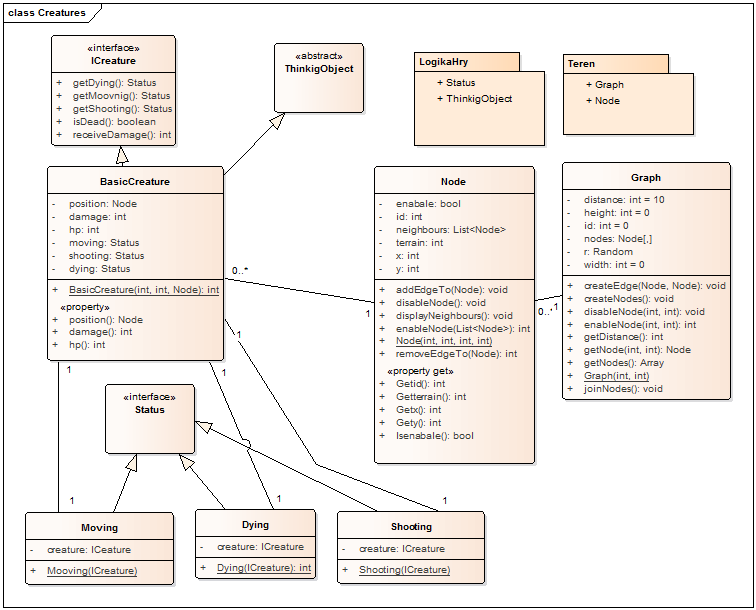
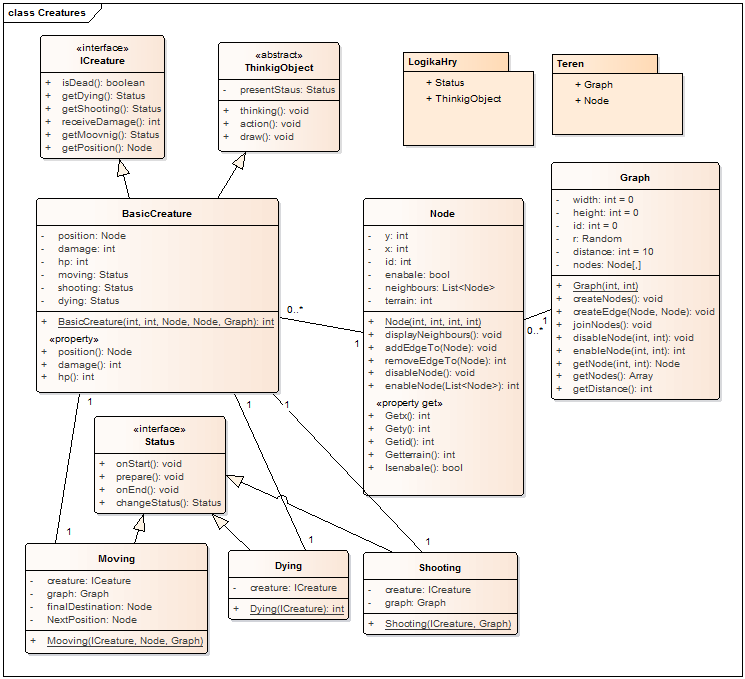
pathfinding algorithm added

Changed region(s): [[0.0, 0.0, 0.9879, 0.9656], [0.2779, 0.0623, 0.494, 0.2492], [0.0, 0.9967, 1.0, 1.0]]

diff --git a/Logika potvor/Mooving.cs b/Logika potvor/Mooving.cs
@@ -1,18 +1,31 @@
 using System;
 using System.Collections.Generic;
-using System.Linq;
-using System.Text;
-using System.Threading.Tasks;
 
 namespace DefendersOfH6
 {
     public class Mooving : Status
     {
-        private ICreature creature;
 
-        public Mooving(ICreature creature)
+        public static string NULL_POSITION = "creature position is null";
+        public static string NULL_DESTINATION = "final destination is null";
+        public static string NULL_GRAPH = "graph is null";
+        public static string NULL_GRAPH_NODES = "graph nodes are null";
+        public static string INCORRECT_GRAPH_DISTANCE = "graph distence is less or equal then 0";
+        public static string PATH_DOES_NOT_EXISTS = "path does not exists";
+
+        private ICreature creature;
+        private Node finalDestinantion;
+        private Graph graph;
+
+        private Node nextPosition;
+        public Node NextPosition { get { return this.nextPosition; } }
+
+        public Mooving(ICreature creature, Node finalDestinantion, Graph graph)
         {
             this.creature = creature;
+            this.finalDestinantion = finalDestinantion;
+            this.graph = graph;
+            this.nextPosition = null;
         }
         
         public Status changeStatus()
@@ -21,23 +34,156 @@ namespace DefendersOfH6
             {
                 return this.creature.getDying();
             }
-            //change to Shooting is missing
-            return null;
-        }
 
-        public void onEnd()
-        {
-            throw new NotImplementedException();
+            foreach(Node neighbour in this.creature.getPosition().getNeighbours())
+            {
+                if(neighbour == finalDestinantion)
+                {
+                    return this.creature.getShooting();
+                }
+            }
+            return null;
         }
 
         public void onStart()
         {
-            throw new NotImplementedException();
+            if(this.creature.getPosition() == null)
+            {
+                throw new NullReferenceException(NULL_POSITION);
+            }
+            if(this.finalDestinantion == null)
+            {
+                throw new NullReferenceException(NULL_DESTINATION);
+            }
+            if (this.graph == null)
+            {
+                throw new NullReferenceException(NULL_GRAPH);
+            }
+            if (this.graph.getNodes() == null)
+            {
+                throw new NullReferenceException(NULL_GRAPH_NODES);
+            }
+            if( this.graph.getDistance() <= 0)
+            {
+                throw new InvalidOperationException(INCORRECT_GRAPH_DISTANCE);
+            }
         }
 
         public void prepare()
         {
-            throw new NotImplementedException();
+            List<Node> path = new Dijkstra(finalDestinantion, creature.getPosition(), graph)
+                                    .initialization()
+                                    .algorithm()
+                                    .getPath();
+            if (path == null)
+            {
+                throw new InvalidOperationException(PATH_DOES_NOT_EXISTS);
+            }
+            nextPosition = path[0];
+        }
+
+        public void onEnd()
+        {
+        }
+        
+        private class Dijkstra
+        {
+
+            private Node finalDestinaton;
+            private Node position;
+            private Graph graph;
+
+            private List<Node> nodes;
+            private List<Node> path;
+            private Dictionary<Node, Node> previous;
+            private Dictionary<Node, int> distances;
+
+
+            public Dijkstra(Node finalDestinaton, Node position, Graph graph)
+            {
+                this.finalDestinaton = finalDestinaton;
+                this.position = position;
+                this.graph = graph;
+
+                this.nodes = new List<Node>();
+                this.previous = new Dictionary<Node, Node>();
+                this.distances = new Dictionary<Node, int>();
+            }
+
+            public Dijkstra initialization()
+            {
+                foreach (Node node in graph.getNodes())
+                {
+                    if (node == position)
+                    {
+                        distances[node] = 0;
+                    }
+                    else
+                    {
+                        if (node.isEnable())
+                        {
+                            distances[node] = int.MaxValue;
+                        }
+                    }
+                    nodes.Add(node);
+                }
+                return this;
+            }
+
+            public List<Node> getPath()
+            {
+                return this.path;
+            }
+
+            public Dijkstra algorithm()
+            {
+                while (nodes.Count != 0)
+                {
+                    nodes.Sort((x, y) => distances[x] - distances[y]);
+
+                    Node smallest = nodes[0];
+                    nodes.Remove(smallest);
+
+                    if (isDestination(smallest))
+                    {
+                        break;
+                    }
+                    if (distances[smallest] == int.MaxValue)
+                    {
+                        break;
+                    }
+                    calcDistanceForNeighbors(smallest);
+                }
+                return this;
+            }
+
+            private Boolean isDestination(Node smallest)
+            {
+                if (smallest == finalDestinaton)
+                {
+                    path = new List<Node>();
+                    while (previous.ContainsKey(smallest))
+                    {
+                        path.Add(smallest);
+                        smallest = previous[smallest];
+                    }
+                    return true;
+                }
+                return false;
+            }
+
+            private void calcDistanceForNeighbors(Node smallest)
+            {
+                foreach (Node neighbor in smallest.getNeighbours())
+                {
+                    int alt = distances[smallest] + graph.getDistance();
+                    if (alt < distances[neighbor])
+                    {
+                        distances[neighbor] = alt;
+                        previous[neighbor] = smallest;
+                    }
+                }
+            }
         }
     }
 }

diff --git a/Logika potvor/BasicCreature.cs b/Logika potvor/BasicCreature.cs
@@ -1,8 +1,4 @@
 using System;
-using System.Collections.Generic;
-using System.Linq;
-using System.Text;
-using System.Threading.Tasks;
 
 namespace DefendersOfH6
 {
@@ -25,14 +21,14 @@ namespace DefendersOfH6
         private Status mooving;
         private Status dying;
 
-        public BasicCreature(Node position, int damage, int hp)
+        public BasicCreature(Node position, Node finalDestinantion, Graph graph, int damage, int hp)
         {
             this.position = position;
             this.damage = damage;
             this.hp = hp;
-
-            this.shooting = new Shooting(this);
-            this.mooving = new Mooving(this);
+            
+            this.shooting = new Shooting(this, graph);
+            this.mooving = new Mooving(this, finalDestinantion, graph);
             this.dying = new Dying(this);
 
             base.presentStatus = mooving;
@@ -41,8 +37,11 @@ namespace DefendersOfH6
         
         public override void action()
         {
-            throw new NotImplementedException();
-            
+            Node nextPosition = ((Mooving)mooving).NextPosition;
+            if (nextPosition.isEnable())
+            {
+                this.position = nextPosition;
+            }
         }
 
         public override void draw()
@@ -83,25 +82,10 @@ namespace DefendersOfH6
         {
             return this.mooving;
         }
+
+        public Node getPosition()
+        {
+            return this.position;
+        }
     }
 }
-
-/*
-             * vyratam si najkratsiu cestu do cieloveho vrchola(floyd)
-             * zistims si cestum*
-             * ak este niesom pri vrchole spravim krok
-             * zistim ci mozem po niekom utocit
-             * ak uz som pri vrchole, alebo mozem utocit srielam(na dialku/iba na blizko)
-             * (dam niekomu damage)
-             */
-
-/*
- * beriem od niekoho damage(pri strelbe na mna)
- * som mrtvy? ak nula zivota
- */
-
-/*
- * incicalizacia -
- * kolko mam zivota
- * kde sa nachadzam
- */

diff --git a/Logika potvor/Shooting.cs b/Logika potvor/Shooting.cs
@@ -1,18 +1,16 @@
 using System;
-using System.Collections.Generic;
-using System.Linq;
-using System.Text;
-using System.Threading.Tasks;
 
 namespace DefendersOfH6
 {
     public class Shooting : Status
     {
         private ICreature creature;
+        private Graph graph;
 
-        public Shooting(ICreature creature)
+        public Shooting(ICreature creature, Graph graph)
         {
             this.creature = creature;
+            this.graph = graph;
         }
 
         public Status changeStatus()

diff --git a/Logika potvor/ICreature.cs b/Logika potvor/ICreature.cs
@@ -1,8 +1,4 @@
 using System;
-using System.Collections.Generic;
-using System.Linq;
-using System.Text;
-using System.Threading.Tasks;
 
 namespace DefendersOfH6
 {
@@ -10,6 +6,8 @@ namespace DefendersOfH6
     {
         int ReciveDamage(int damage);
         Boolean isDead();
+
+        Node getPosition();
 
         Status getDying();
         Status getShooting();

diff --git a/Logika potvor/Dying.cs b/Logika potvor/Dying.cs
@@ -1,8 +1,4 @@
 using System;
-using System.Collections.Generic;
-using System.Linq;
-using System.Text;
-using System.Threading.Tasks;
 
 namespace DefendersOfH6
 {
